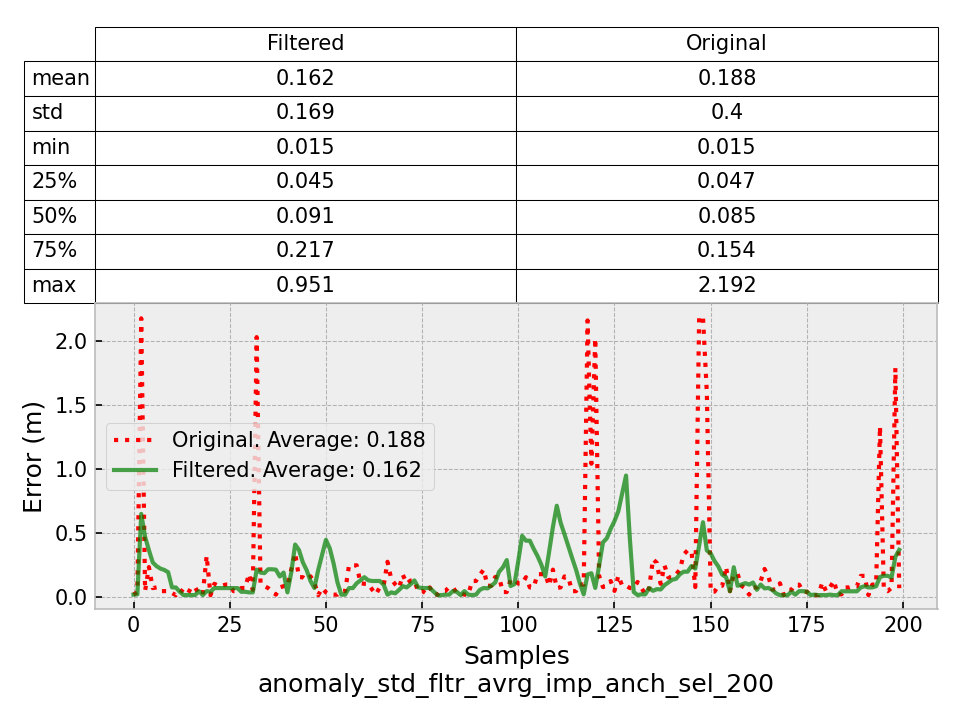
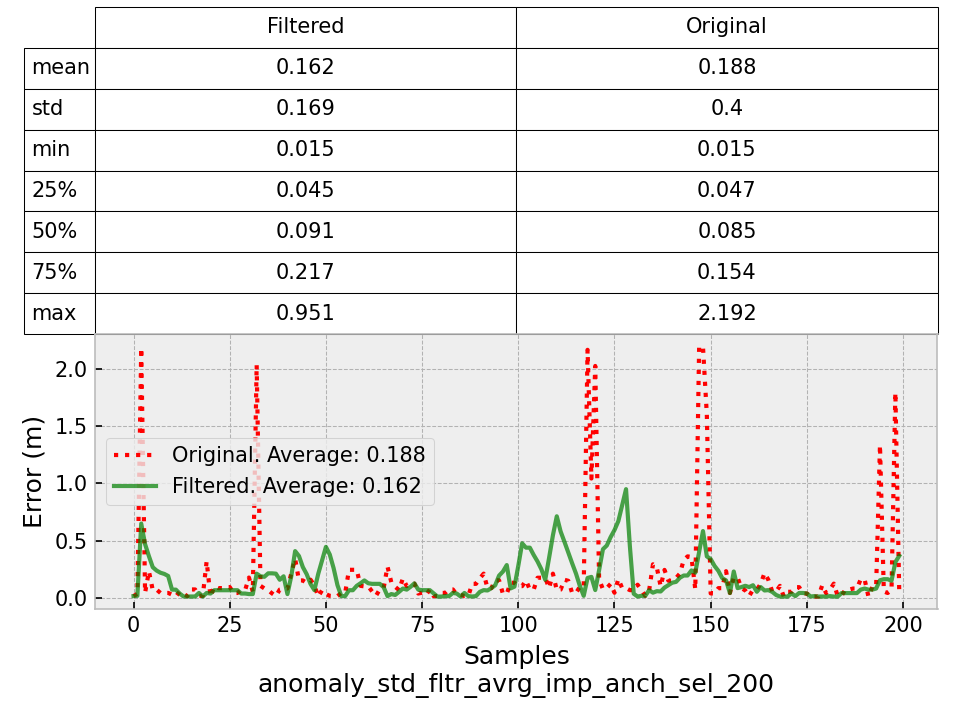
stat table

Changed region(s): [[0.0, 0.0, 0.9688, 0.8556], [0.0625, 0.825, 0.0938, 0.8556], [0.0625, 0.7333, 0.0938, 0.7639]]

diff --git a/src/Data_analysis/filtered_vs_original_plot.py b/src/Data_analysis/filtered_vs_original_plot.py
@@ -119,11 +119,11 @@ for k, location in dict_of_locations.items():
                         #   colWidths=[0.5] * 2,
                         )
 
-    plt.subplots_adjust(left=0.2, bottom=-0.2)
+    plt.subplots_adjust(left=0.2, bottom=-0.32)
     plt.tight_layout()
     # plt.xticks([])
     plt.legend()
-    the_table.scale(1, 2.5)
+    the_table.scale(1, 3.3)
     plt.savefig(
         f"src/Data_analysis/plot_data/position_plot_fitered_original/error_stat_{k}.png")
     plt.close()

diff --git a/src/notes.py b/src/notes.py
@@ -51,11 +51,11 @@ the_table = plt.table(cellText=cell_text,
                     #   colWidths=[0.1] * 3,
                       )
 
-plt.subplots_adjust(left=0.2, bottom=-0.3)
+plt.subplots_adjust(left=0.2, bottom=-0.32)
 plt.tight_layout()
 # plt.xticks([])
 plt.legend()
-the_table.scale(1, 3)
-plt.show()
+the_table.scale(1, 3.3)
+# plt.show()
 # plt.savefig('test.png')
 
